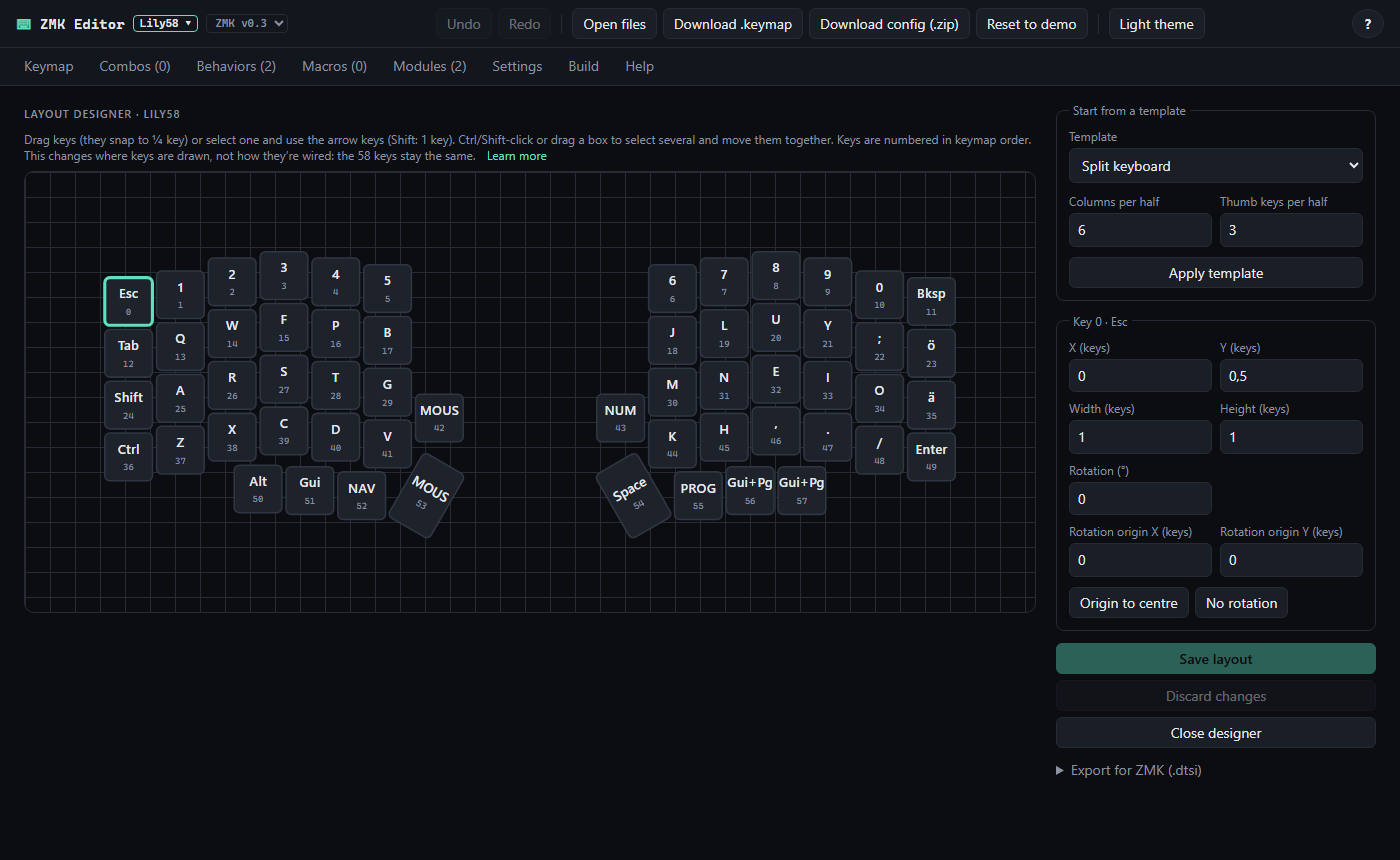
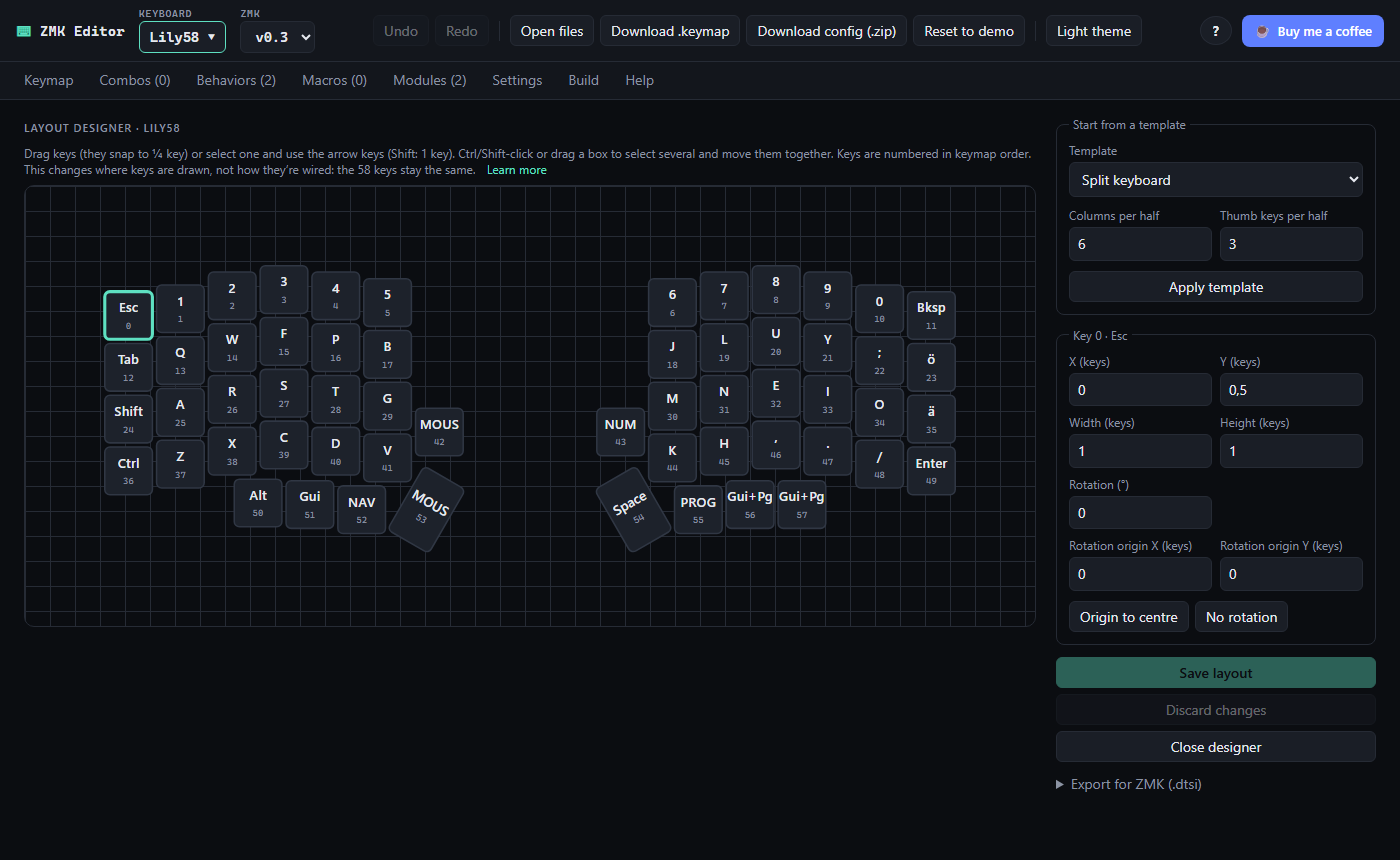
Easier-to-see palette filters, top bar controls, and a Buy me a coffee link
- Bigger palette filter chips; without a filter or search, keys are grouped
  under category headings.
- Modifiers get their own labelled row ('Hold with placed keys:') with a
  square toggle style, separate from the filters.
- The keyboard and ZMK version controls are full-size and labelled.
- A Buy me a coffee link in the top bar (a styled link, no external image, so
  the CSP stays as is) and the button in the README.

diff --git a/src/ui/components/KeyPalette.tsx b/src/ui/components/KeyPalette.tsx
@@ -7,6 +7,7 @@ import {
   MODIFIER_FUNCTIONS,
   preferredName,
   searchKeycodes,
+  type Keycode,
   type KeycodeCategory,
   type ModifierFunction,
 } from '../../core/catalog/keycodes.ts';
@@ -87,6 +88,14 @@ export function KeyPalette({ keymap, armed, selection, onPick }: KeyPaletteProps
     );
   };
 
+  const keyTile = (keycode: Keycode) => {
+    const token = formatKeyExpression({ mods, key: preferredName(keycode) });
+    const label = mods.length > 0 ? keyExpressionLabel(token) : keycode.label;
+    return tile({ kind: 'keycode', token }, { main: label, sub: token }, `${label} (${token})`, `${keycode.description} (${token})`);
+  };
+  // With no category or search, keys are shown under their category headings.
+  const grouped = !category && !query.trim();
+
   const hint = armed
     ? 'Click keys to place the highlighted tile · Esc or click the tile again to stop'
     : selection.length > 1
@@ -149,7 +158,7 @@ export function KeyPalette({ keymap, armed, selection, onPick }: KeyPaletteProps
               value={query}
               onChange={(e) => setQuery(e.target.value)}
             />
-            <div className="chips" role="group" aria-label="Palette key categories">
+            <div className="chips palette-chips" role="group" aria-label="Palette key categories">
               {KEYCODE_CATEGORIES.map((c) => (
                 <button
                   key={c.id}
@@ -162,30 +171,48 @@ export function KeyPalette({ keymap, armed, selection, onPick }: KeyPaletteProps
                 </button>
               ))}
             </div>
-            <div className="chips" role="group" aria-label="Hold with placed keys">
-              {MODIFIER_FUNCTIONS.map((m) => (
-                <button
-                  key={m.id}
-                  type="button"
-                  className={`chip${mods.includes(m.id) ? ' active' : ''}`}
-                  aria-pressed={mods.includes(m.id)}
-                  aria-label={`Hold ${m.name} with placed keys`}
-                  title={`Hold ${m.name} with the placed key (${m.id})`}
-                  onClick={() => toggleMod(m.id)}
-                >
-                  +{m.label}
-                </button>
-              ))}
+            <div className="palette-mods">
+              <span className="palette-mods-label" id="palette-mods-label">
+                Hold with placed keys:
+              </span>
+              <div className="mod-toggles" role="group" aria-labelledby="palette-mods-label">
+                {MODIFIER_FUNCTIONS.map((m) => (
+                  <button
+                    key={m.id}
+                    type="button"
+                    className={`mod-toggle${mods.includes(m.id) ? ' active' : ''}`}
+                    aria-pressed={mods.includes(m.id)}
+                    aria-label={`Hold ${m.name} with placed keys`}
+                    title={`Hold ${m.name} with the placed key (${m.id})`}
+                    onClick={() => toggleMod(m.id)}
+                  >
+                    {m.label}
+                  </button>
+                ))}
+              </div>
             </div>
           </div>
-          <div className="palette-tiles" role="group" aria-label="Keys">
-            {keycodes.map((keycode) => {
-              const token = formatKeyExpression({ mods, key: preferredName(keycode) });
-              const label = mods.length > 0 ? keyExpressionLabel(token) : keycode.label;
-              return tile({ kind: 'keycode', token }, { main: label, sub: token }, `${label} (${token})`, `${keycode.description} (${token})`);
-            })}
-            {keycodes.length === 0 && <p className="muted">No keys match.</p>}
-          </div>
+          {grouped ? (
+            <div className="palette-groups">
+              {KEYCODE_CATEGORIES.map((c) => {
+                const inCategory = keycodes.filter((k) => k.category === c.id);
+                if (inCategory.length === 0) return null;
+                return (
+                  <div key={c.id} className="palette-group">
+                    <h3 className="palette-group-title">{c.label}</h3>
+                    <div className="palette-tiles" role="group" aria-label={c.label}>
+                      {inCategory.map(keyTile)}
+                    </div>
+                  </div>
+                );
+              })}
+            </div>
+          ) : (
+            <div className="palette-tiles" role="group" aria-label="Keys">
+              {keycodes.map(keyTile)}
+              {keycodes.length === 0 && <p className="muted">No keys match.</p>}
+            </div>
+          )}
         </>
       ) : (
         <>

diff --git a/src/ui/App.tsx b/src/ui/App.tsx
@@ -174,18 +174,25 @@ export function App() {
       <div className="app">
         <header className="topbar">
           <div className="brand">
-            <span className="brand-mark" aria-hidden="true">
-              ⌨
+            <span className="brand-name">
+              <span className="brand-mark" aria-hidden="true">
+                ⌨
+              </span>
+              ZMK Editor
             </span>
-            ZMK Editor
-            <button
-              type="button"
-              className={`badge badge-button${['keyboard', 'designer', 'newKeyboard', 'editHardware'].includes(view) ? ' active' : ''}`}
-              onClick={() => setView('keyboard')}
-              title="Keyboard and layout"
-            >
-              {config.hardware?.displayName ?? findKeyboard(config.keyboard)?.name ?? config.keyboard} ▾
-            </button>
+            <div className="top-field">
+              <span className="top-field-label" aria-hidden="true">
+                Keyboard
+              </span>
+              <button
+                type="button"
+                className={`top-select${['keyboard', 'designer', 'newKeyboard', 'editHardware'].includes(view) ? ' active' : ''}`}
+                onClick={() => setView('keyboard')}
+                title="Keyboard and layout"
+              >
+                {config.hardware?.displayName ?? findKeyboard(config.keyboard)?.name ?? config.keyboard} ▾
+              </button>
+            </div>
             <VersionSelect config={config} dispatch={dispatch} />
           </div>
           <Toolbar
@@ -197,9 +204,14 @@ export function App() {
             onToggleTheme={toggleTheme}
             dispatch={dispatch}
           />
-          <button type="button" className="button help-button" aria-label="Open help" title="Help" onClick={() => openHelp()}>
-            ?
-          </button>
+          <div className="topbar-end">
+            <button type="button" className="button help-button" aria-label="Open help" title="Help" onClick={() => openHelp()}>
+              ?
+            </button>
+            <a className="coffee-link" href="https://www.buymeacoffee.com/gristone" target="_blank" rel="noopener noreferrer">
+              <span aria-hidden="true">☕</span> Buy me a coffee
+            </a>
+          </div>
         </header>
         <nav className="viewtabs" aria-label="Views">
           {tabs.map((t) => (

diff --git a/src/ui/styles.css b/src/ui/styles.css
@@ -104,8 +104,77 @@ select {
   letter-spacing: 0.02em;
 }
 
+.brand {
+  gap: 14px;
+}
+
+.brand-name {
+  display: flex;
+  align-items: center;
+  gap: 8px;
+}
+
 .brand-mark {
   color: var(--accent);
+}
+
+/* The keyboard and ZMK version controls: labelled, full-size, easy to spot. */
+.top-field {
+  display: flex;
+  flex-direction: column;
+  gap: 2px;
+}
+
+.top-field-label {
+  font-family: var(--font-body, inherit);
+  font-size: 10px;
+  font-weight: 600;
+  text-transform: uppercase;
+  letter-spacing: 0.08em;
+  color: var(--text-muted);
+}
+
+.top-select {
+  height: 32px;
+  padding: 4px 10px;
+  border: 1px solid var(--border);
+  border-radius: 6px;
+  background: var(--surface-2);
+  color: var(--text);
+  font-family: var(--font-mono);
+  font-size: 14px;
+  font-weight: 600;
+  cursor: pointer;
+}
+
+.top-select:hover,
+.top-select.active {
+  border-color: var(--accent);
+}
+
+.topbar-end {
+  display: flex;
+  align-items: center;
+  gap: 10px;
+}
+
+.coffee-link {
+  display: inline-flex;
+  align-items: center;
+  gap: 6px;
+  height: 32px;
+  padding: 0 12px;
+  border-radius: 8px;
+  background: #5f7fff;
+  color: #ffffff;
+  font-size: 13px;
+  font-weight: 600;
+  text-decoration: none;
+  white-space: nowrap;
+}
+
+.coffee-link:hover {
+  background: #4d6dee;
 }
 
 .badge {
@@ -793,6 +862,54 @@ select {
 .chip.active {
   background: var(--accent-soft);
   border-color: var(--accent);
+}
+
+.palette-chips .chip {
+  padding: 4px 12px;
+  font-size: 13px;
+}
+
+/* Modifiers are toggles, not filters: their own labelled row and a square style. */
+.palette-mods {
+  display: flex;
+  flex-wrap: wrap;
+  align-items: center;
+  gap: 8px;
+  padding-top: 8px;
+  border-top: 1px solid var(--border);
+}
+
+.palette-mods-label {
+  font-size: 12px;
+  color: var(--text-muted);
+}
+
+.mod-toggles {
+  display: flex;
+  flex-wrap: wrap;
+  gap: 4px;
+}
+
+.mod-toggle {
+  min-width: 48px;
+  padding: 4px 8px;
+  border: 1px solid var(--keycap-edge);
+  border-radius: 4px;
+  background: var(--surface-2);
+  font-family: var(--font-mono);
+  font-size: 12px;
+  font-weight: 600;
+  cursor: pointer;
+}
+
+.mod-toggle:hover {
+  border-color: var(--text-muted);
+}
+
+.mod-toggle.active {
+  border-color: var(--accent);
+  background: var(--accent);
+  color: var(--accent-contrast);
 }
 
 .chip:disabled {

diff --git a/src/ui/KeyPalette.test.tsx b/src/ui/KeyPalette.test.tsx
@@ -123,3 +123,31 @@ describe('key palette', () => {
     expect(keyButton('Key 0: Esc').getAttribute('draggable')).toBeNull();
   });
 });
+
+describe('palette layout', () => {
+  it('groups keys by category until a category or search narrows them', async () => {
+    const user = userEvent.setup();
+    render(<App />);
+    expect(palette().getByRole('heading', { name: 'Letters' })).toBeTruthy();
+    expect(within(palette().getByRole('group', { name: 'Numbers' })).getByRole('button', { name: 'Place 1 (N1)' })).toBeTruthy();
+
+    await user.click(within(palette().getByRole('group', { name: 'Palette key categories' })).getByRole('button', { name: 'Numbers' }));
+    expect(palette().queryByRole('heading', { name: 'Letters' })).toBeNull();
+    expect(within(palette().getByRole('group', { name: 'Keys' })).getByRole('button', { name: 'Place 1 (N1)' })).toBeTruthy();
+  });
+
+  it('keeps the modifiers in their own labelled group', () => {
+    render(<App />);
+    const mods = palette().getByRole('group', { name: 'Hold with placed keys:' });
+    expect(within(mods).getAllByRole('button')).toHaveLength(8);
+  });
+});
+
+describe('top bar', () => {
+  it('links to Buy me a coffee in a new tab', () => {
+    render(<App />);
+    const link = screen.getByRole('link', { name: 'Buy me a coffee' });
+    expect(link.getAttribute('href')).toBe('https://www.buymeacoffee.com/gristone');
+    expect(link.getAttribute('target')).toBe('_blank');
+  });
+});

diff --git a/src/ui/components/VersionSelect.tsx b/src/ui/components/VersionSelect.tsx
@@ -25,13 +25,15 @@ export function VersionSelect({ config, dispatch }: VersionSelectProps) {
     });
   };
   return (
-    <label className="version-select" title="ZMK version for the firmware, its modules and the build">
-      <span className="sr-only">ZMK version</span>
-      <select value={version} onChange={(e) => change(e.target.value)} aria-label="ZMK version">
-        {!ZMK_VERSIONS.includes(version) && <option value={version}>ZMK {version}</option>}
+    <label className="top-field" title="ZMK version for the firmware, its modules and the build">
+      <span className="top-field-label" aria-hidden="true">
+        ZMK
+      </span>
+      <select className="top-select" value={version} onChange={(e) => change(e.target.value)} aria-label="ZMK version">
+        {!ZMK_VERSIONS.includes(version) && <option value={version}>{version}</option>}
         {ZMK_VERSIONS.map((v) => (
           <option key={v} value={v}>
-            ZMK {v}
+            {v}
           </option>
         ))}
       </select>

diff --git a/README.md b/README.md
@@ -6,6 +6,8 @@ A visual editor for [ZMK](https://zmk.dev) keyboard configs, in the browser. Edi
 
 Nothing to install. Your work stays in your browser until you commit it.
 
+<a href="https://www.buymeacoffee.com/gristone"><img src="https://img.buymeacoffee.com/button-api/?text=Buy%20me%20a%20coffee&emoji=&slug=gristone&button_colour=5F7FFF&font_colour=ffffff&font_family=Lato&outline_colour=000000&coffee_colour=FFDD00" alt="Buy me a coffee" /></a>
+
 ![The keymap view: the keyboard, the key palette underneath and the side panel editing one key](docs/images/keymap.png)
 
 ## What it does
